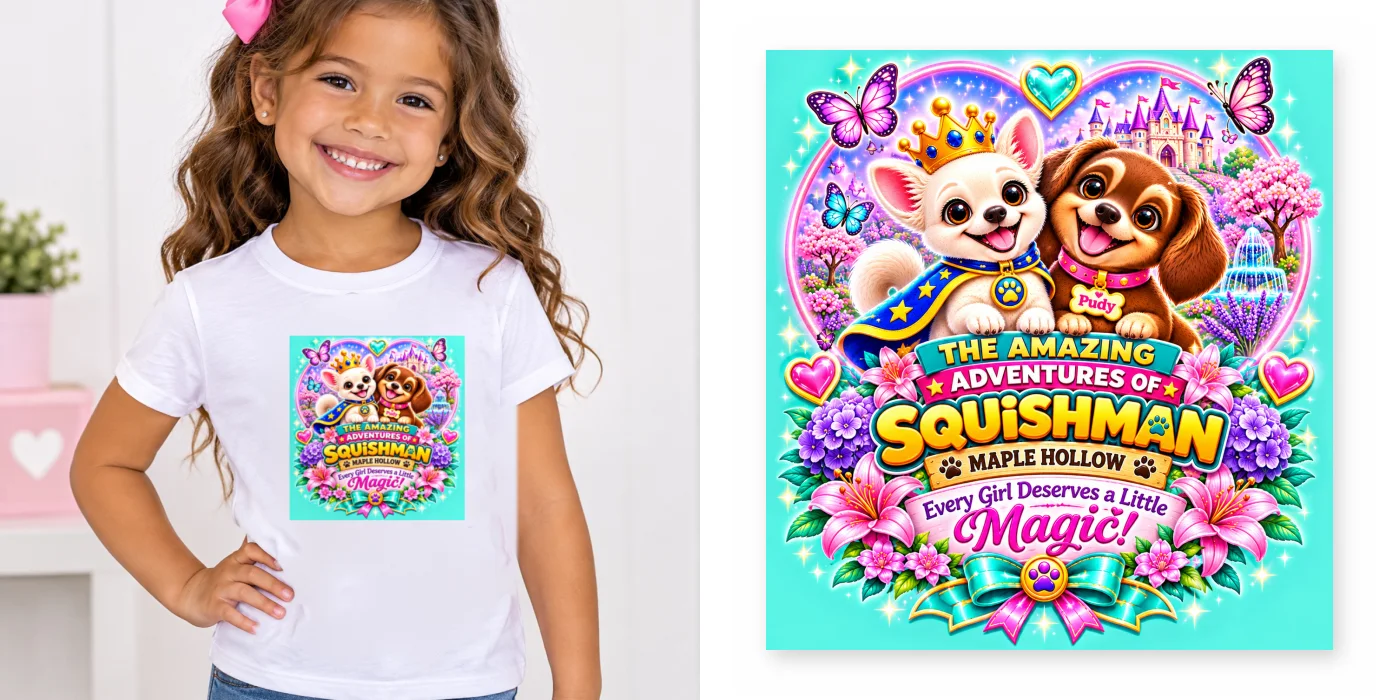
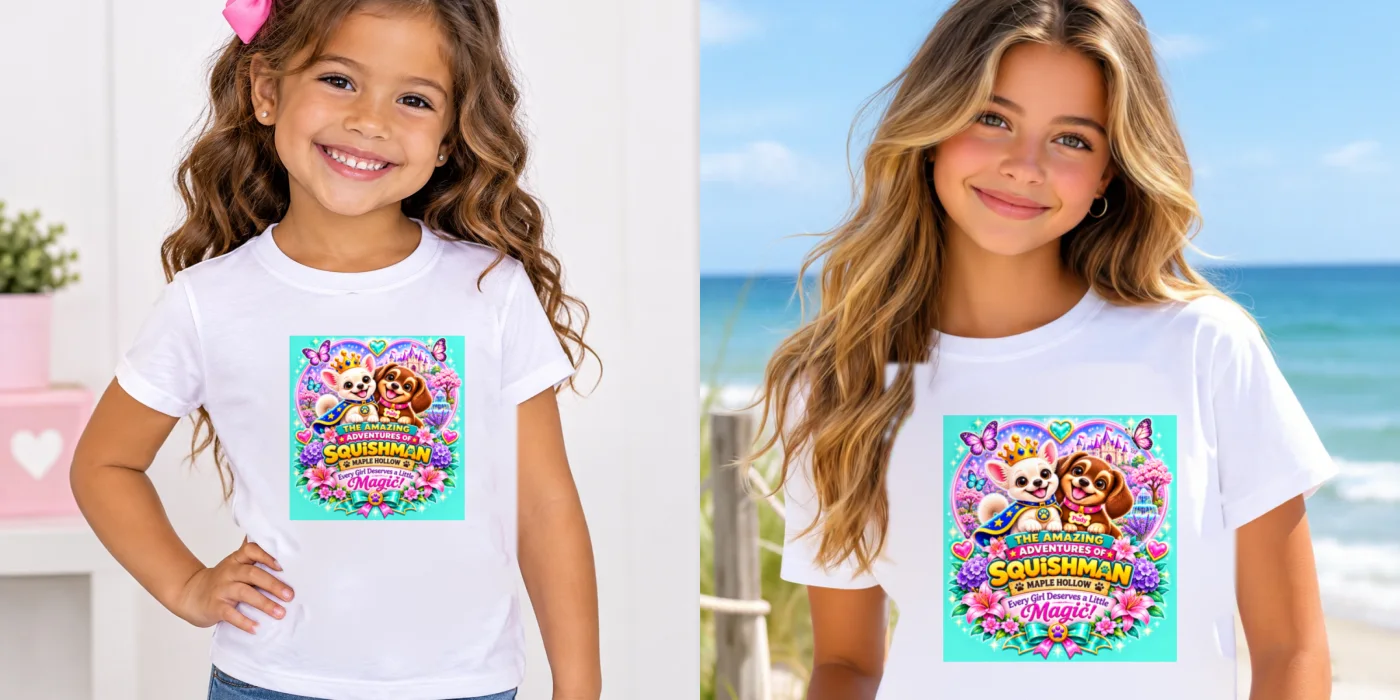
Girls' tee: beach-girl model wearing all seven designs
Each design's shop photo now shows both models: the younger girl and the
owner's beach-girl photo (her original print replaced with the design,
chest-sized). See Photos adds her full-length beach photo and an artwork
close-up for the chosen design.

Claude-Session: https://claude.ai/code/session_01UWGUUWoCXNBhVHaKnEfjmD

diff --git a/public/merch.js b/public/merch.js
@@ -325,6 +325,9 @@ function show(i){
 function open(p,from){
  const start=p.active||0,ordered=p.colors.slice(start).concat(p.colors.slice(0,start));
  slides=(p.lead?[{img:p.lead,label:`${p.name} — on a model (white)`}]:[]).concat(ordered.map(c=>({img:c[2],label:p.sheet?`${p.name} — full collection`:`${p.name} — ${c[0]}`}))).concat((p.extra||[]).map(x=>({img:x,label:`${p.name} — detail views`})));
+ // Girls' tee: per design, the full beach photo and an artwork close-up.
+ const gs=p.imgBase==='girlstee'&&p.colors[0][2].name.replace('shop-girlstee-white-','');
+ if(gs)slides=slides.concat([{img:img(`shop-girlstee-beach-${gs}`,900,1344,0,0,`A smiling girl on the beach in the white ${p.name} with the ${DESIGN_TITLE[design(p).key]} design`),label:`${p.name} — on the beach`},{img:img(`shop-girlstee-art-${gs}`,1400,700,0,0,`Close-up of the ${DESIGN_TITLE[design(p).key]} artwork`),label:`${p.name} — the artwork`}]);
  opener=from;gTitle.textContent=p.name;show(0);
  if(typeof dlg.showModal==='function')dlg.showModal();else dlg.setAttribute('open','');
  dlg.querySelector('.mg-close').focus();

diff --git a/cartoon-production/scripts/shirt_swap_beach.py b/cartoon-production/scripts/shirt_swap_beach.py
@@ -1,0 +1,54 @@
+#!/usr/bin/env python3
+"""Put a square girl design on the beach-girl photo (owner upload, 3 Nov 2026).
+
+Her shirt already has a large print (x 300-810, y 595-1195). It is replaced with plain
+fabric rebuilt from the surrounding white shirt (keeping the hair that falls over the left
+edge), then the new design is multiplied onto the fabric, chest-sized and centered.
+
+Usage: python3 -I shirt_swap_beach.py <photo> <design_png> <out_png> [width_px]
+"""
+import sys
+import numpy as np, cv2
+
+photo, design, out = sys.argv[1], sys.argv[2], sys.argv[3]
+WIDTH = int(sys.argv[4]) if len(sys.argv) > 4 else 360
+im = cv2.imread(photo).astype(np.float32) / 255
+H, W, _ = im.shape
+hsv = cv2.cvtColor((im * 255).astype(np.uint8), cv2.COLOR_BGR2HSV).astype(np.float32)
+hue, sat, val = hsv[..., 0], hsv[..., 1] / 255, hsv[..., 2] / 255
+yy, xx = np.mgrid[0:H, 0:W]
+
+rect = (xx >= 285) & (xx <= 825) & (yy >= 580) & (yy <= 1205)
+# hair: hair-coloured pixels connected to the hair outside the print box
+hairish = ((hue >= 8) & (hue <= 28) & (sat > 0.18) & (sat < 0.8) & (val > 0.3)).astype(np.uint8)
+n, lab = cv2.connectedComponents(hairish)
+outside_ids = np.unique(lab[(~rect) & (hairish > 0) & (xx < 300) & (yy > 500)])
+hair = np.isin(lab, outside_ids[outside_ids > 0]) & (xx < 330)
+# old print: anything not plain white fabric inside the box, grown to cover anti-aliasing
+ink = rect & ~hair & ((sat > 0.13) | (val < 0.55))
+mask = cv2.dilate(ink.astype(np.uint8), cv2.getStructuringElement(cv2.MORPH_ELLIPSE, (13, 13)))
+mask = cv2.morphologyEx(mask, cv2.MORPH_CLOSE, cv2.getStructuringElement(cv2.MORPH_ELLIPSE, (41, 41))) > 0
+mask &= rect & ~hair
+
+shirt = (sat < 0.10) & (val > 0.68) & (yy > 470) & (yy < 1420) & (xx > 140) & (xx < 940) & ~mask
+w = shirt.astype(np.float32)
+def nconv(sig):
+    d = cv2.GaussianBlur(w, (0, 0), sig)
+    return np.stack([cv2.GaussianBlur(im[..., c] * w, (0, 0), sig) for c in range(3)], -1) / (d[..., None] + 1e-6), d
+fine, dfine = nconv(40)
+coarse, _ = nconv(140)
+trust = np.clip(dfine / 0.3, 0, 1)[..., None]
+est = fine * trust + coarse * (1 - trust)
+grain = np.random.default_rng(3).normal(0, 0.006, (H, W, 1)).astype(np.float32)
+fm = cv2.GaussianBlur(mask.astype(np.float32), (0, 0), 3)[..., None]
+clean = im * (1 - fm) + np.clip(est + grain, 0, 1) * fm
+
+art = cv2.imread(design).astype(np.float32) / 255
+art = cv2.resize(art, (WIDTH, int(art.shape[0] * WIDTH / art.shape[1])), interpolation=cv2.INTER_AREA)
+ah, aw = art.shape[:2]
+x0, y0 = 555 - aw // 2, 660
+roi = clean[y0:y0 + ah, x0:x0 + aw]
+tone = roi / np.clip(cv2.GaussianBlur(roi, (0, 0), 40).mean(axis=(0, 1)), 0.5, 1)
+printed = cv2.GaussianBlur(np.clip(art * np.clip(tone, 0.6, 1.08), 0, 1), (0, 0), 0.6)
+clean[y0:y0 + ah, x0:x0 + aw] = printed
+cv2.imwrite(out, (np.clip(clean, 0, 1) * 255).astype(np.uint8))
